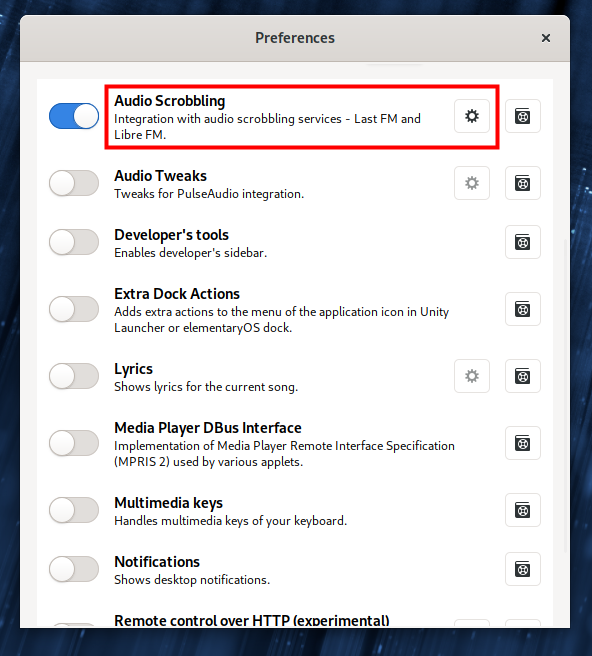
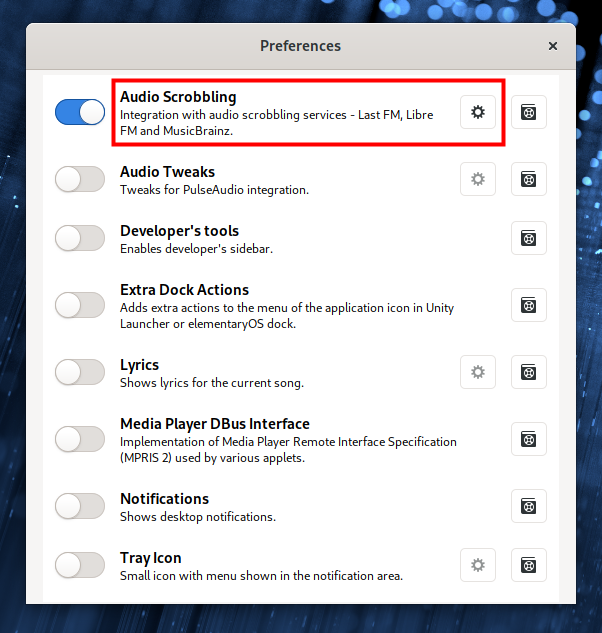
Add ListenBrainz to scrobblers
Issue: tiliado/nuvolaruntime#617

diff --git a/pages/4/scrobbling.md b/pages/4/scrobbling.md
@@ -9,4 +9,4 @@ toggle *Audio Scrobbling* on and then click the gear button to adjust *Audio Scr
 +[Open Preferences dialog.](:images/4/features/open_preferences.png|330)
 +[Enable Audio Scrobbling Services.](:images/4/features/enable_scrobbling.png|330)
 +[Choose Audio Scrobbling Services.](:images/4/features/choose_scrobbling.png|330)
-+[Tweak Last.fm Scrobbling to your liking.](:images/4/features/scrobbling.png|330)
++[Tweak scrobbling to your liking.](:images/4/features/scrobbling.png|330)

diff --git a/snippets/4/features/scrobbling.md b/snippets/4/features/scrobbling.md
@@ -1,4 +1,4 @@
 Scrobbling is the phenomenon of submitting information about
 recently played tracks to a public website so that you can share
 your exquisite music taste with friends or get music recommendation.
-The popular Last.fm and Libre.fm services are fully supported.
+The popular **Last.fm**, **Libre.fm** and **MusicBrainz** services are fully supported.
